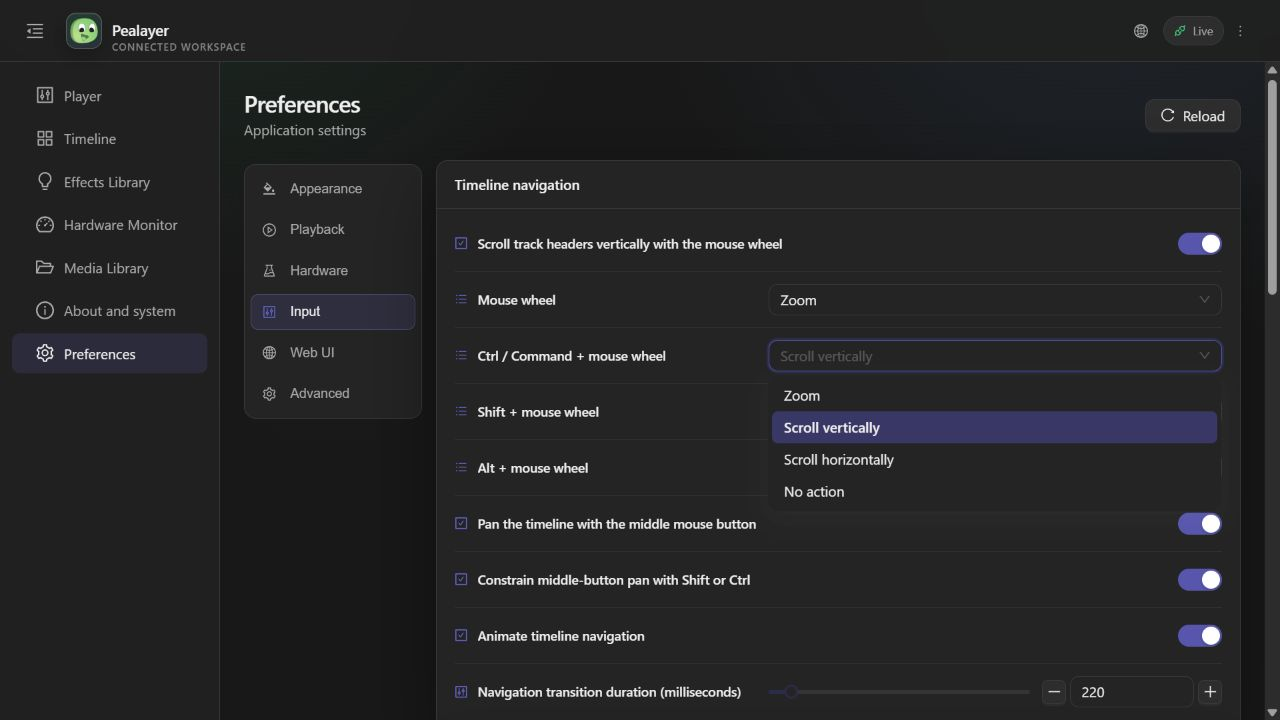
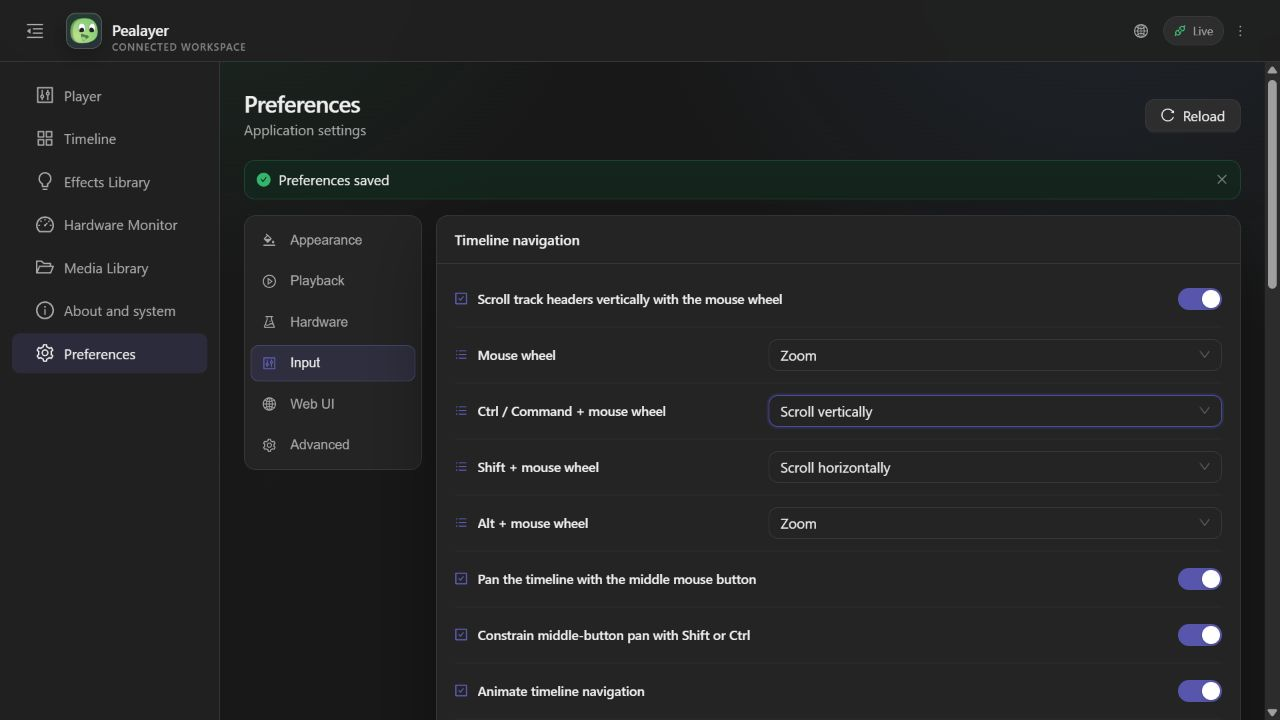
Record timeline wheel live verification and canonical deployment

diff --git a/docs/verification/timeline-wheel-actions.md b/docs/verification/timeline-wheel-actions.md
@@ -1,0 +1,39 @@
+# Timeline wheel routing and configurable modifier actions
+
+## Delivered
+
+- Physical horizontal wheel input always pans X, including with Ctrl/Command, Shift, or Alt held. It is never used as a zoom delta.
+- Native routing covers the track-header column, ruler, tracks/cues, and unused canvas space below the content. Both columns continue sharing the same vertical offset. Popup/modal layers are excluded from underlying wheel handling.
+- Vertical wheel actions now use exclusive dropdowns in the shared Preferences contract, rendered by both egui and Web Preferences. Each offers Zoom, Scroll vertically, Scroll horizontally, or No action.
+- Defaults: plain canvas wheel = Zoom; Ctrl/Command = Scroll vertically; Shift = Scroll horizontally; Alt = Zoom. Plain wheel over track headers retains the existing independently configurable vertical-scroll preference.
+- Config keys: `timeline_plain_wheel_action`, `timeline_ctrl_wheel_action`, `timeline_shift_wheel_action`, and `timeline_alt_wheel_action`. Values use `zoom`, `vertical_scroll`, `horizontal_scroll`, or `none`. These replace the overlapping wheel-policy checkboxes; configurations without these keys receive the defaults above. Combined modifier priority is Shift, then Ctrl/Command, then Alt.
+- Native processing reads original Point/Line/Page wheel events: egui otherwise converts Ctrl into zoom input and Shift into horizontal input before routing. Handled input is consumed once, including No action, preventing a second ScrollArea operation.
+- The Web timeline has real horizontal extent when zoomed, cursor-anchored zoom, a sticky ruler, and wheel handling on its entire viewport rather than individual cue children.
+- Player status and the existing WebSocket/HTTP state stream advertise `timeline_wheel_preferences`. Open Web Preferences and the timeline receive native/API changes without reload; Web edits use the existing config API and update the native app. No separate browser preference store was introduced for these policies.
+
+## Verification
+
+- 15 focused native timeline tests passed, including the new real egui input regression over empty space, Ctrl wheel consumption, horizontal-axis priority for every policy, original event units, pointer-anchored zoom, fixed ruler, and existing track geometry/hit testing.
+- Shared Preferences test passed: defaults, modifier swaps, persistence roundtrip, valid/invalid API shape, all four dropdown definitions, and status serialization/deserialization.
+- `npm run build` passed TypeScript, wheel-routing checks, production bundle generation, and PWA verification. Wheel checks now run on every Web build.
+- Live browser test on the actual instance, with its actual empty cue timeline: plain wheel over unused space increased content width to 205.443%, retaining the cursor anchor. Horizontal wheel over the body moved X from 332.667 to 472.667; horizontal wheel over the ruler moved it to 552.667, leaving zoom unchanged. Ctrl vertical wheel left zoom and browser scale unchanged. This empty timeline has no vertical overflow, so no claim of visible Web vertical travel is made.
+- Live config API swapped plain to vertical scroll, Ctrl to zoom, and Alt to horizontal scroll. The already-open Web Preferences dropdowns changed without navigation/reload. Selecting Ctrl = Scroll vertically in the browser then appeared in the native status API. All four requested defaults were restored afterward.
+- Windows computer-use screenshot capture failed twice, including a fresh rebuilt-window binding: `IGraphicsCaptureItemInterop.CreateForMonitor`, error `0x8007041D` (capture service timeout). No blind native UI input or native screenshot claim was made. Native visual/manual wheel verification remains pending; native rendering/input tests passed.
+
+## Deployment and preservation
+
+- Implementation: `9bd91ed`; live synchronization: `1f91b9acb6112177d064a3fb67fb3d53a854a163`.
+- Another agent's `ee9db98` Effects Library Run Now RPC fix was discovered on the remote branch and preserved by a non-rewriting merge (`846101c`), with no conflicts.
+- Graceful `POST /api/ipc` quit preceded replacement. Built with `scripts/package-windows.ps1 -SkipTests -NoUpx` and launched the canonical binary, not a temporary work-directory executable.
[1 lines of base64/hex data omitted]
+- Canonical executable: `%LOCALAPPDATA%\Programs\Pealayer\bin\pealayer.exe`; observed PID 44808; `/healthz` returned `ok`.
+- Cafe-PC's `http://cafe-pc:8080/healthz` timed out. No manual SSH deployment was substituted, and remote delivery is not claimed.
+- Code, generated Web assets, and this evidence are preserved on PR #46. The PR remains open/unmerged.
+
+## Use
+
+Open **Preferences → Input → Timeline navigation**. Choose each vertical-wheel action independently; to swap defaults, set Mouse wheel to Scroll vertically and Ctrl/Command + mouse wheel to Zoom. Horizontal wheel input still pans X. Settings apply immediately and persist.
+
+![Requested defaults in the running Web Preferences](timeline-wheel-actions/preferences.png)
+
+![API changes reflected live in the already-open Web Preferences](timeline-wheel-actions/live-sync.png)
